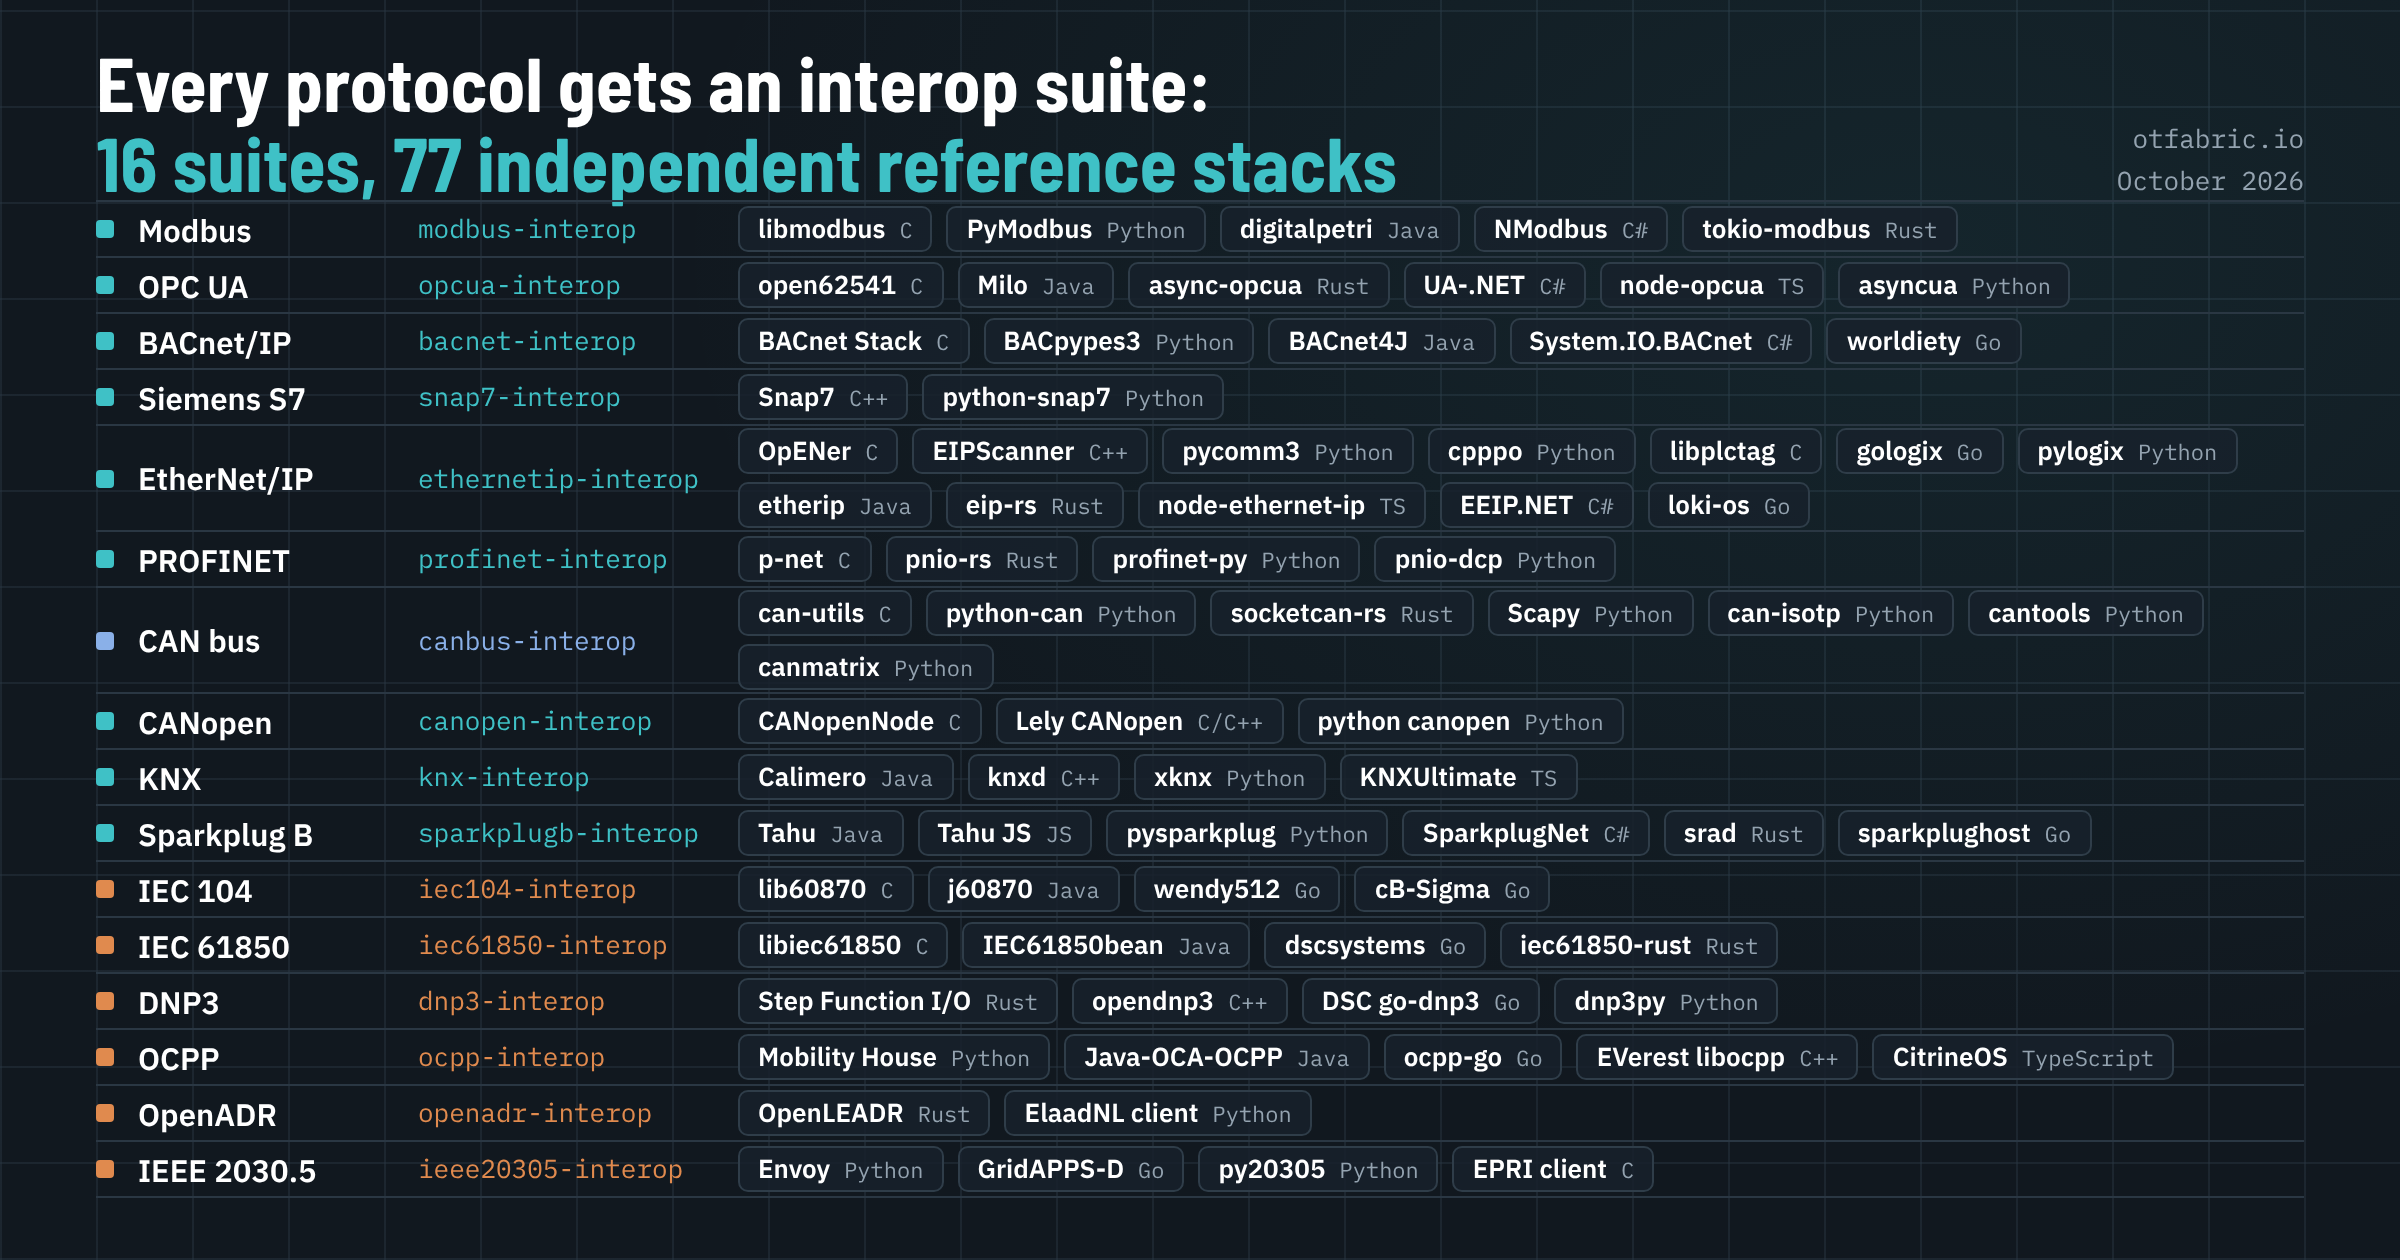
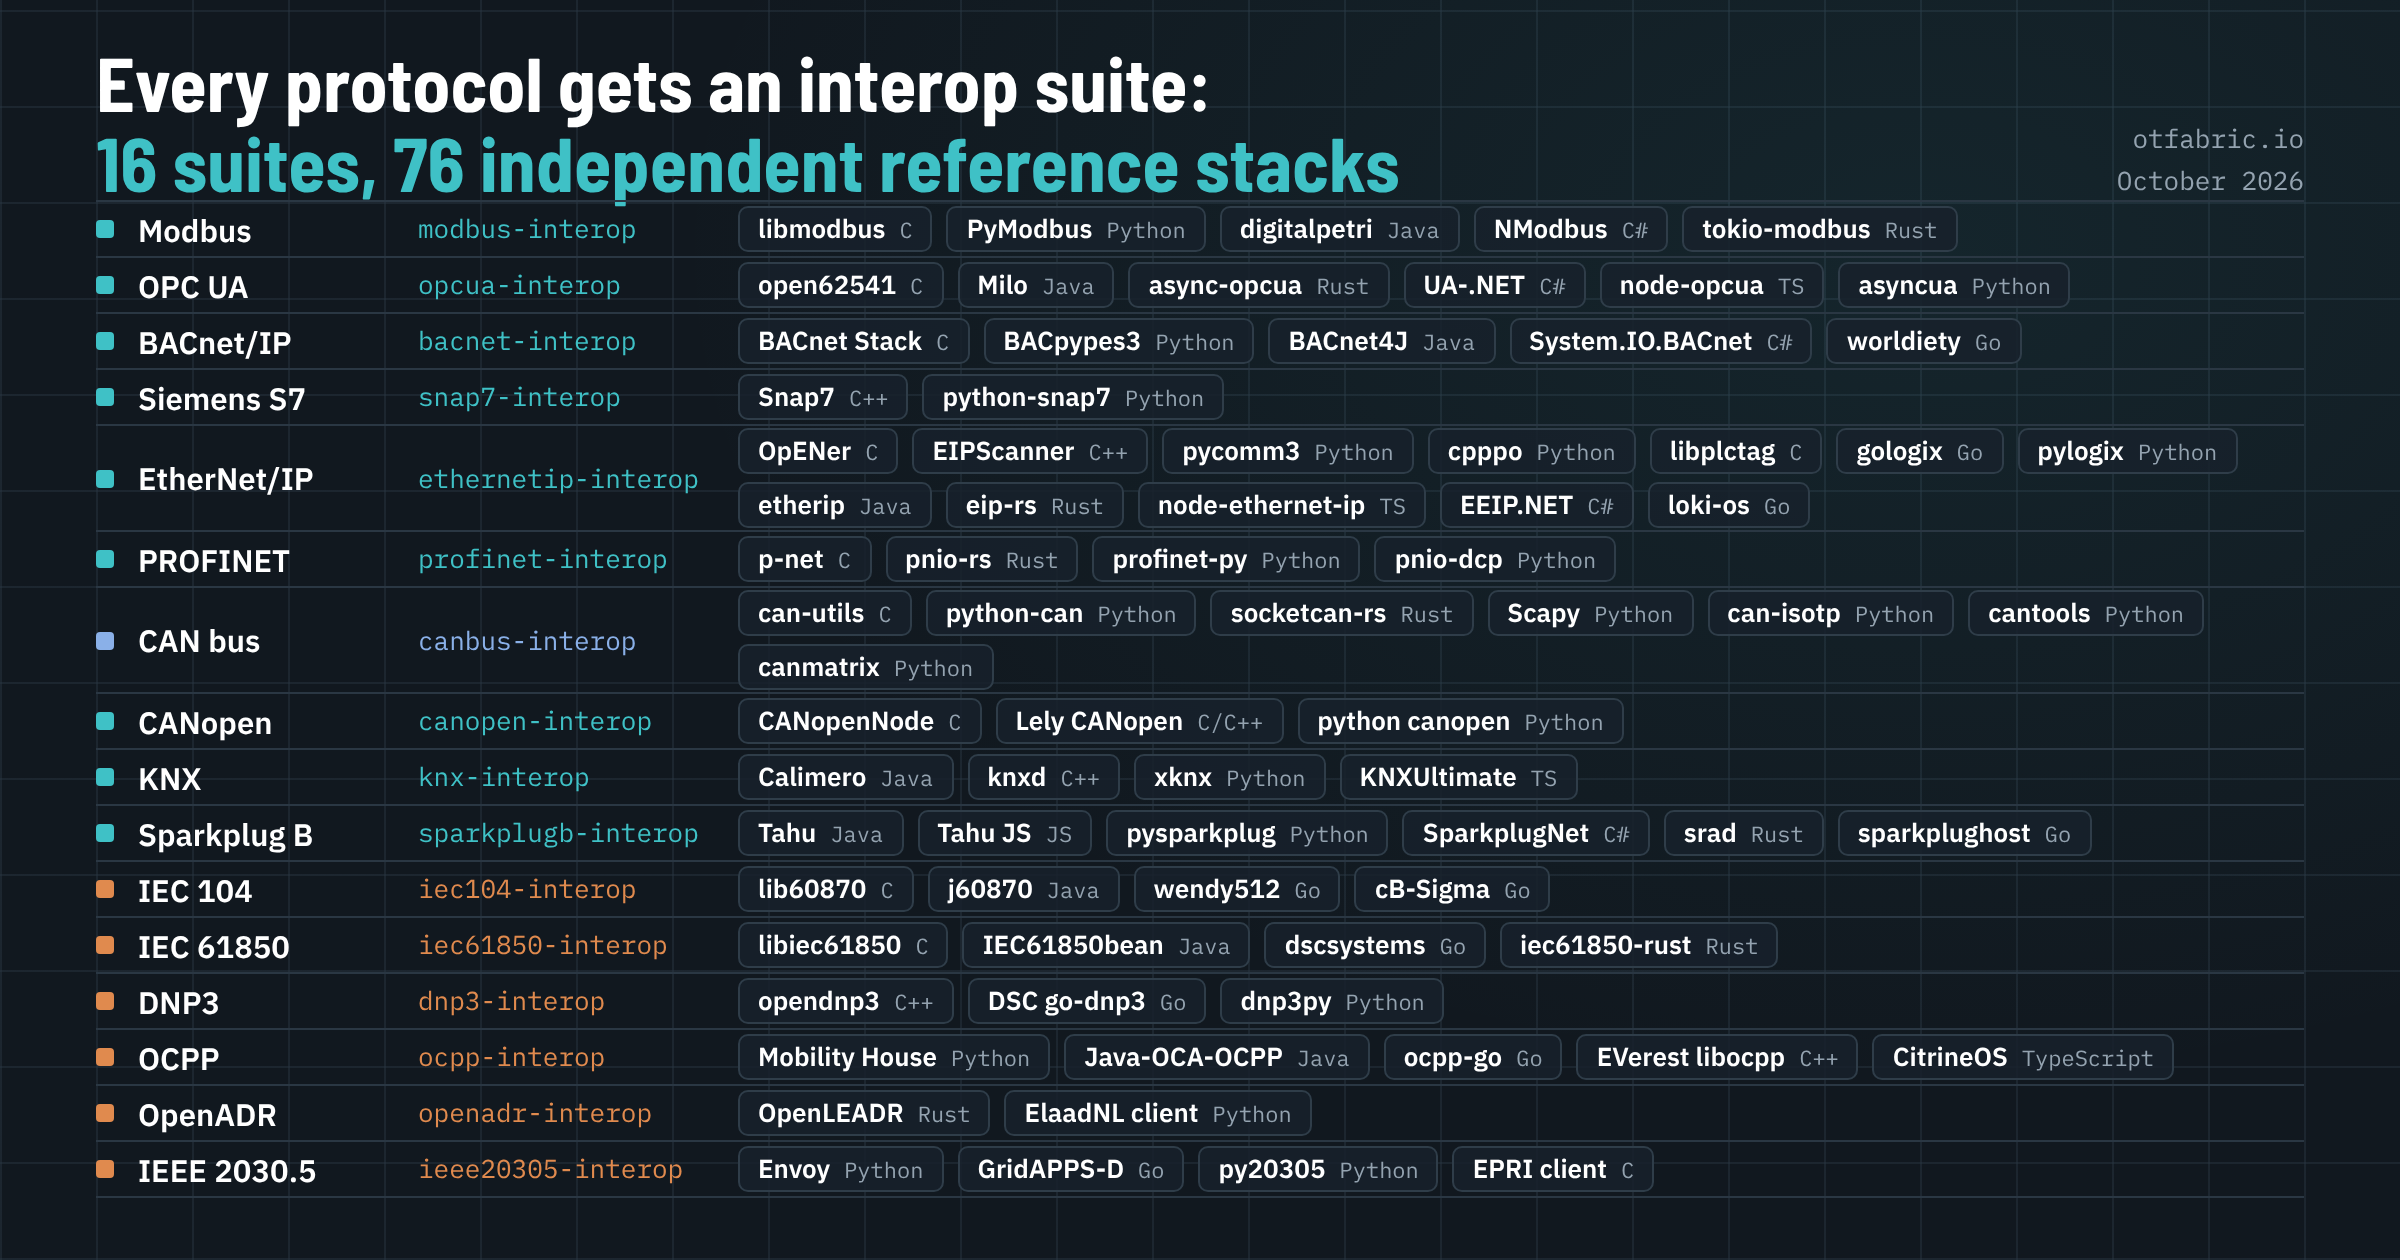
Move Step Function I/O dnp3 to commercial and drop interop claims (#44)
The ecosystem map now files stepfunc-dnp3 as a commercial stack and no
longer marks it interop tested. DNP3 docs, protocol page, catalog entry,
launch post, landscape post, interop suites post and both covers now list
three dnp3-interop references: opendnp3, DSC go-dnp3 and dnp3py.

Claude-Session: https://claude.ai/code/session_01RAyt1WyRbojyceRTV6UAqM

Changed region(s): [[0.3125, 0.7738, 0.75, 0.8048], [0.1562, 0.1238, 0.5938, 0.1548]]

diff --git a/src/content/blog/why-every-protocol-gets-an-interop-suite.md b/src/content/blog/why-every-protocol-gets-an-interop-suite.md
@@ -1,12 +1,12 @@
 ---
 title: Why every protocol gets an interop suite
-description: Every OT Fabric protocol is tested against independent implementations. Sixteen interop suites package 77 reference stacks as containers behind one contract, test them against each other first, and record what they find in our code and in theirs.
+description: Every OT Fabric protocol is tested against independent implementations. Sixteen interop suites package 76 reference stacks as containers behind one contract, test them against each other first, and record what they find in our code and in theirs.
 date: 2026-10-12
 updated: 2026-10-30
 authors: [OT Fabric]
 tags: [testing, interop]
 cover:
-  alt: Sixteen OT Fabric interop suites and their 77 independent reference stacks. Modbus, OPC UA, BACnet/IP, Siemens S7, EtherNet/IP, PROFINET, CAN bus, CANopen, KNX, Sparkplug B, IEC 104, IEC 61850, DNP3, OCPP, OpenADR and IEEE 2030.5, each with the open-source implementations its suite runs and their languages.
+  alt: Sixteen OT Fabric interop suites and their 76 independent reference stacks. Modbus, OPC UA, BACnet/IP, Siemens S7, EtherNet/IP, PROFINET, CAN bus, CANopen, KNX, Sparkplug B, IEC 104, IEC 61850, DNP3, OCPP, OpenADR and IEEE 2030.5, each with the open-source implementations its suite runs and their languages.
   image: ../../assets/blog/interop-suites.png
 ---
 
@@ -14,7 +14,7 @@ A protocol library that only passes its own tests proves very little. Two implem
 
 So every OT Fabric protocol comes with an interoperability suite: independent, established stacks packaged as containers, with deterministic fixtures and a common contract. Our libraries and tools are tested against them in both directions before a release says it works.
 
-## Sixteen suites, 77 reference stacks
+## Sixteen suites, 76 reference stacks
 
 | Protocol | Suite | Reference implementations |
 |---|---|---|
@@ -24,7 +24,7 @@ So every OT Fabric protocol comes with an interoperability suite: independent, e
 | [Siemens S7](/protocols/s7/) | [snap7-interop](/projects/snap7-interop/) | Snap7 (C++), python-snap7 (Python) |
 | [IEC 60870-5-104](/protocols/iec-104/) | [iec104-interop](/projects/iec104-interop/) | lib60870 (C), OpenMUC j60870 (Java), wendy512/iec104 (Go), cB-Sigma iec60870 (Go) |
 | [IEC 61850](/protocols/iec-61850/) (MMS, GOOSE, Sampled Values) | [iec61850-interop](/projects/iec61850-interop/) | libiec61850 (C), IEC61850bean (Java), dscsystems/go-iec61850 (Go), iec61850-rust (Rust) |
-| [DNP3](/protocols/dnp3/) | [dnp3-interop](/projects/dnp3-interop/) | Step Function I/O dnp3 (Rust), opendnp3 (C++), DSC go-dnp3 (Go), dnp3py (Python) |
+| [DNP3](/protocols/dnp3/) | [dnp3-interop](/projects/dnp3-interop/) | opendnp3 (C++), DSC go-dnp3 (Go), dnp3py (Python) |
 | [OCPP](/protocols/ocpp/) | [ocpp-interop](/projects/ocpp-interop/) | The Mobility House ocpp (Python), ChargeTimeEU Java-OCA-OCPP (Java), ocpp-go (Go), EVerest libocpp (C++), CitrineOS (TypeScript) |
 | [OpenADR](/protocols/openadr/) | [openadr-interop](/projects/openadr-interop/) | OpenLEADR (Rust), ElaadNL openadr3-client (Python), plus a specification-driven conformance suite |
 | [IEEE 2030.5](/protocols/ieee-2030-5/) | [ieee20305-interop](/projects/ieee20305-interop/) | ANU Envoy (Python), GridAPPS-D (Go), DER Security py20305 (Python), EPRI client (C) |
